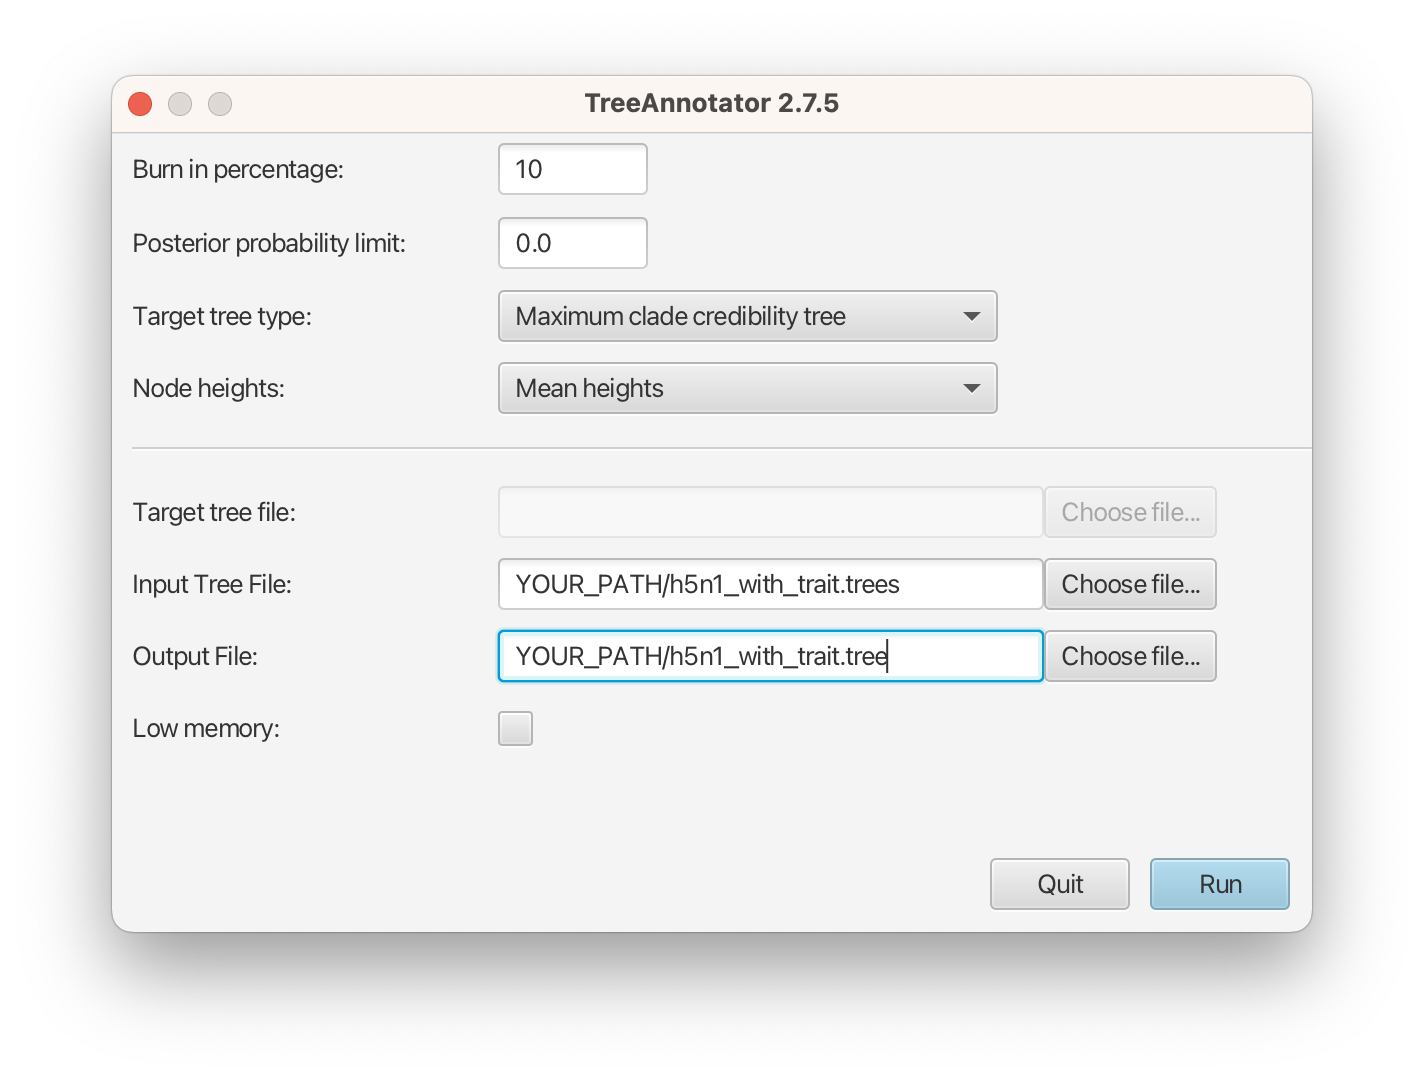
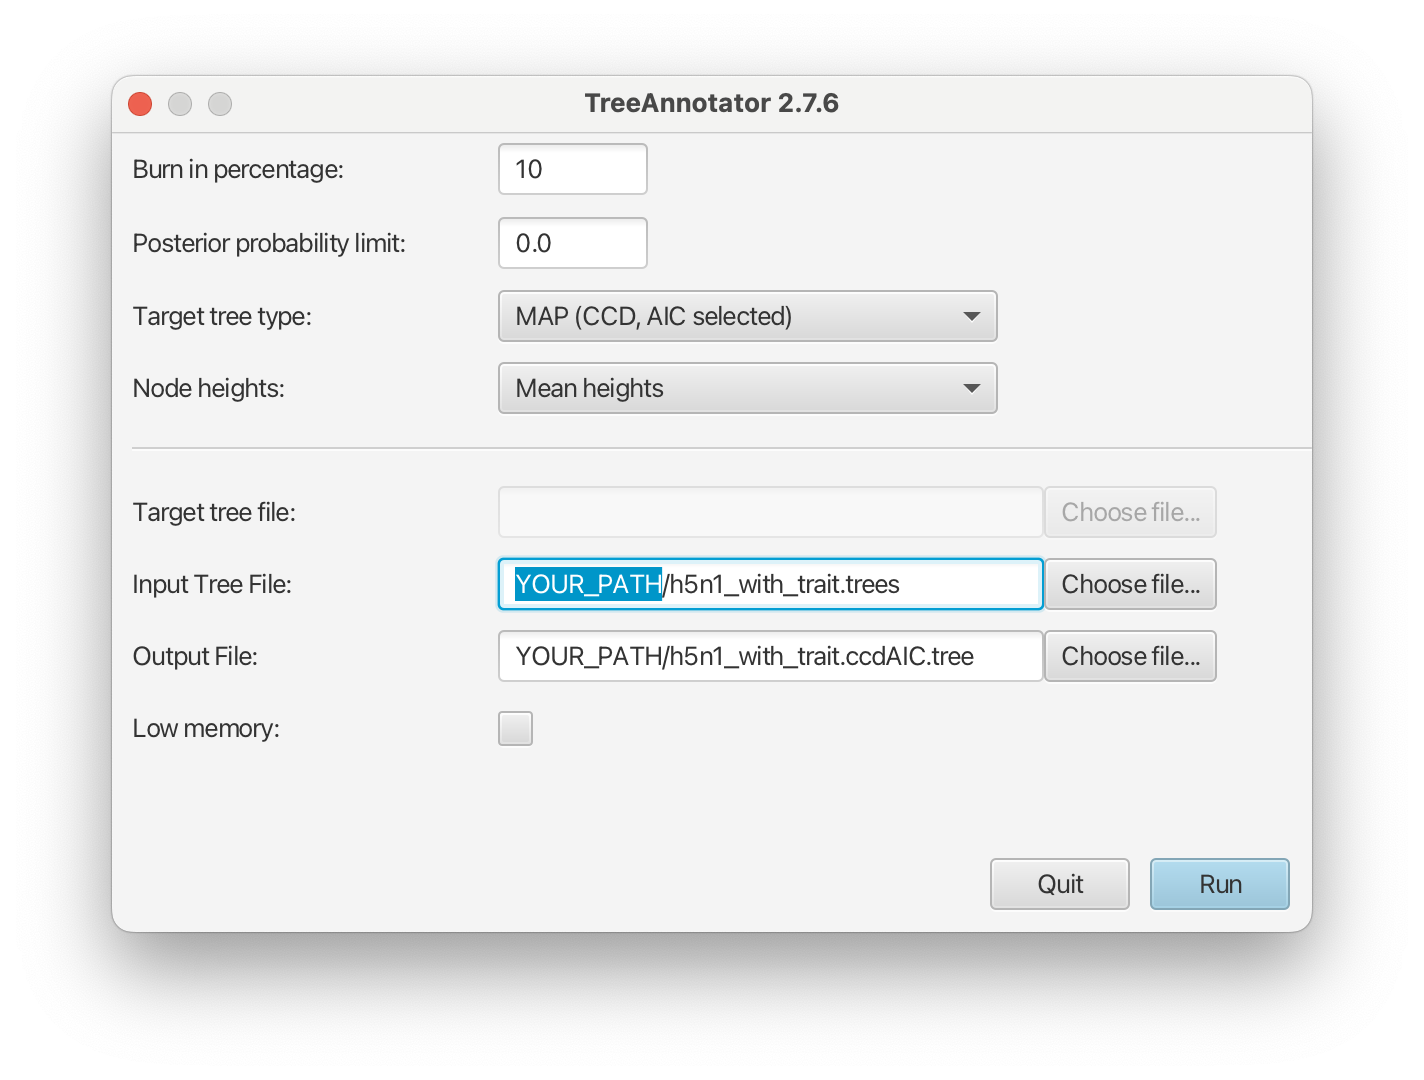
rm duplicated text

Changed region(s): [[0.3399, 0.4889, 0.7416, 0.6417], [0.3708, 0.275, 0.5871, 0.3056]]

diff --git a/tutorials/templates/tree-annotator.md b/tutorials/templates/tree-annotator.md
@@ -1,12 +1,5 @@
 
 To summarize the trees logged during MCMC, we will use the [CCD methods](https://doi.org/10.1101/2024.02.20.581316) 
-implemented in the program TreeAnnotator to create one maximum a posteriori (MAP) tree.
-The implementation of the conditional clade distribution (CCD) has different parametrisations,
-such as CCD1 based on clade split frequencies, and CCD0 based on clade frequencies.
-The MAP tree topology is the tree topology that has the greatest posterior probability, 
-averaged over all branch lengths and substitution parameter values.  
-
-To summarize the trees logged during MCMC, we will use the [CCD methods](https://doi.org/10.1101/2024.02.20.581316) 
 implemented in the program TreeAnnotator to create a single maximum a posteriori (MAP) tree. 
 The implementation of the conditional clade distribution (CCD) offers different parameterizations, 
 such as CCD1, which is based on clade split frequencies, and CCD0, which is based on clade frequencies. 
